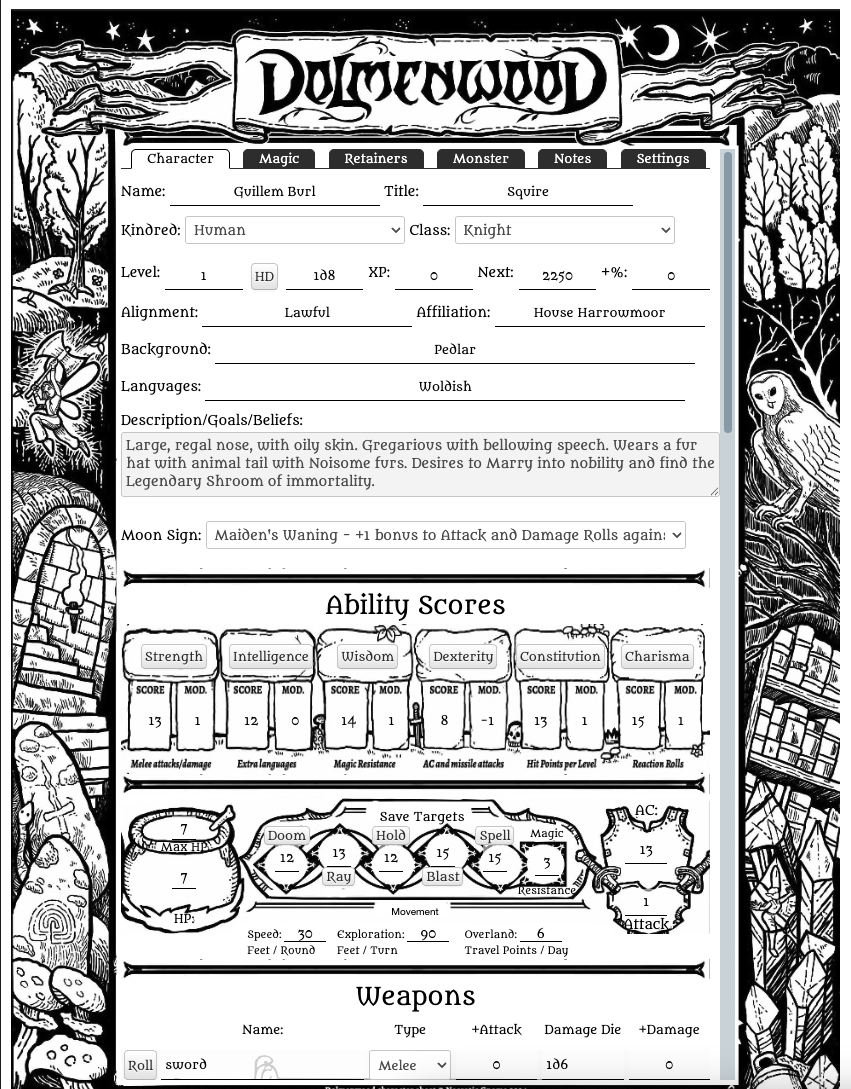
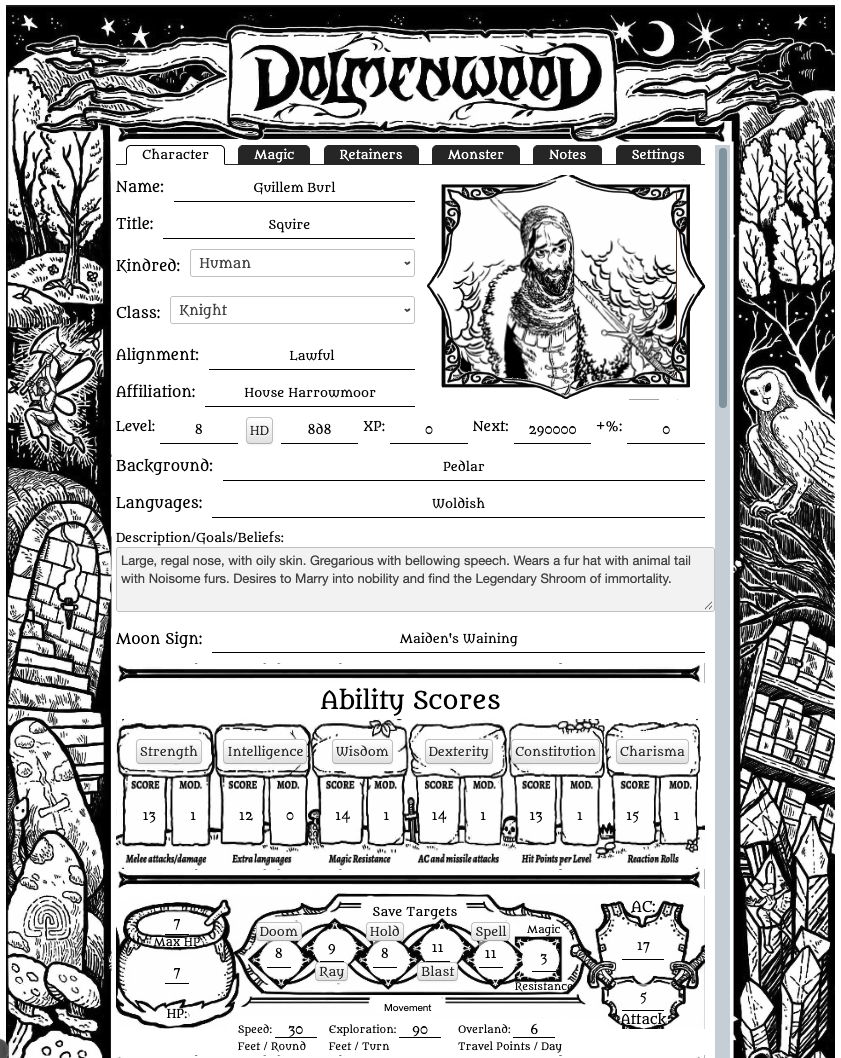
Dolmenwood: update to sho character portrate.

diff --git a/Dolmenwood/dolmenwood.html b/Dolmenwood/dolmenwood.html
@@ -37,6 +37,10 @@
             <label class="inline-flex space-between">
               <span data-i18n="name">Name:</span>
               <input type="text" name="attr_character_name"/>
+            </label>
+          </div>
+          <div class="flex">
+            <label class="inline-flex space-between">    
               <span data-i18n="title">Title</span>
               <input type="text" name="attr_title"/>
             </label>
@@ -54,6 +58,10 @@
                 <option value="woodgrue" data-i18n="woodgrue">Woodgrue</option>
                 <option value="custom" data-i18n="custom">Custom</option>
               </select>
+            </label>
+          </div>
+          <div class="flex">
+            <label class="inline-flex">
               <span data-i18n="class">Class:</span>
               <select name="attr_class" class="class">
                 <option>--</option>
@@ -80,52 +88,64 @@
               </select>
             </label>
           </div>
-          <div>
-            <div class="flex xp">
-              <span data-i18n="level">Level</span>
-              <input type="number" min="0" name="attr_level" value="1" />
-              <button type="roll" name="hitpointsRoll" data-i18n="hit-dice-abbr" title="Hit Dice" data-i18n-title="hit-dice"
-                value="&{template:simple} {{roll=HP for @{character_name}}} {{result=[[@{hitdice}+[[@{conMod}*{@{level}, 9}kl1]]]]}}">
-                HD
-              </button>
-              <input type="text" name="attr_hitdice" value="0"/>
-              <span data-i18n="experience-abbr">XP</span>
-              <input type="number" min="0" name="attr_XP" value="0" />
-              <span data-i18n="next">Next</span>
-              <input type="number" min="0" name="attr_Next" data-i18n-title="experience-next"
-                title="Experience to Next Level" value="0" />
-              <span>+%:</span>
-              <input type="number" name="attr_ExpPercentage" value="0" />
-            </div>
-          </div>
           <div class="flex">
             <label class="inline-flex">
               <span data-i18n="alignment">Alignment:</span>
               <input type="text" name="attr_alignment" />
+            </label>
+          </div>
+          <div class="flex">
+            <label class="inline-flex">
               <span data-i18n="affiliation">Affiliation:</span>
               <input type="text" name="attr_affiliation" />
             </label>
           </div>
-          <div class="flex">
-            <label class="inline-flex">
-              <span data-i18n="background">Background</span>
-              <input type="text" name="attr_background"/>
-            </label>
+        </div>
+        <div class="portrait-frame">
+          <img name="attr_character_avatar" class="portrait-image" />
+          <img class="portrait-border"
+            src="https://github.com/Roll20/roll20-character-sheets/blob/master/Dolmenwood/images/portrait-border.png?raw=true" />
+        </div>
+      </div>
+
+      <div class="details">
+        <div>
+          <div class="flex xp">
+            <span data-i18n="level">Level</span>
+            <input type="number" min="0" name="attr_level" value="1" />
+            <button type="roll" name="hitpointsRoll" data-i18n="hit-dice-abbr" title="Hit Dice" data-i18n-title="hit-dice"
+              value="&{template:simple} {{roll=HP for @{character_name}}} {{result=[[@{hitdice}+[[@{conMod}*{@{level}, 9}kl1]]]]}}">
+              HD
+            </button>
+            <input type="text" name="attr_hitdice" value="0"/>
+            <span data-i18n="experience-abbr">XP</span>
+            <input type="number" min="0" name="attr_XP" value="0" />
+            <span data-i18n="next">Next</span>
+            <input type="number" min="0" name="attr_Next" data-i18n-title="experience-next"
+              title="Experience to Next Level" value="0" />
+            <span>+%:</span>
+            <input type="number" name="attr_ExpPercentage" value="0" />
           </div>
-          <div class="flex">
-            <label class="inline-flex">
-              <span data-i18n="languages">Languages:</span>
-              <input type="text" name="attr_languages" />
-            </label>
-          </div>
-          <span data-i18n="description-goals-beliefs">Description/Goals/Beliefs:</span>
-          <textarea name="attr_descGoalBel" rows="2"></textarea>
-          <div class="flex">
-            <label class="inline-flex">
-              <span data-i18n="moon-sign">Moon Sign:</span>
-              <input type="text" name="attr_moonsign" />
-            </label>
-          </div>
+        </div>
+        <div class="flex">
+          <label class="inline-flex">
+            <span data-i18n="background">Background</span>
+            <input type="text" name="attr_background"/>
+          </label>
+        </div>
+        <div class="flex">
+          <label class="inline-flex">
+            <span data-i18n="languages">Languages:</span>
+            <input type="text" name="attr_languages" />
+          </label>
+        </div>
+        <span data-i18n="description-goals-beliefs">Description/Goals/Beliefs:</span>
+        <textarea name="attr_descGoalBel" rows="2"></textarea>
+        <div class="flex">
+          <label class="inline-flex">
+            <span data-i18n="moon-sign">Moon Sign:</span>
+            <input type="text" name="attr_moonsign" />
+          </label>
         </div>
       </div>
 
@@ -1636,35 +1656,54 @@
 
     <!-- Monster Sheet -->
     <div class="sheet-monster">
-      <div class="monster-row">
-        <span data-i18n="name">Name:</span>
-        <input type="text" name="attr_character_name" />
-        <span class="double" data-i18n="description">Description</span>
-        <input type="text" name="attr_monsterDescription" />
-      </div>
-      <div class="monster-row">
-        <span data-i18n="alignment">Alignment</span>
-        <input type="text" name="attr_alignment" />
-        <span>Level:</span>
-        <input type="number" min="0" name="attr_monsterHitDice" value="1" />
-        <span data-i18n="armor-class-abbr" title="Armour Class" data-i18n-title="armor-class">AC</span>
-        <input type="number" name="attr_monsterAc" value="0" />
-      </div>
-      <div class="monster-row">
-        <button type="roll" name="monsterHpRoll" data-i18n="hit-dice-number-abbr" title="Hit Dice"
-          data-i18n-title="hit-dice-number"
-          value="/w gm &{template:simple} {{roll=HP for @{character_name}}} {{result=[[@{hitdice}]]}}">
-          # HD:
-        </button>
-        <input type="text" min="0" name="attr_hitdice" value="1d8" />
-        <button type="action" name="act_setAverageHP" data-i18n="hit-points-average">
-          Average HP
-        </button>
-        <input readonly type="number" name="attr_averageHP" value="" />
-        <span data-i18n="hit-points-abbr">HP:</span>
-        <input type="number" name="attr_HP" value="0" />
-        <span data-i18n="hit-points-max-abbr">Max:</span>
-        <input type="number" min="0" name="attr_HP_max" value="0" />
+      <div class="monster-header">
+        <div class="monster-left">
+          <div class="monster-row">
+            <span data-i18n="name">Name:</span>
+            <input type="text" name="attr_character_name" />
+          </div>
+          
+          <div class="monster-row">
+            <span class="double" data-i18n="description">Description</span>
+            <input type="text" name="attr_monsterDescription" />
+          </div>
+          <div class="monster-row">
+            <span data-i18n="alignment">Alignment</span>
+            <input type="text" name="attr_alignment" />
+          </div>
+          
+          <div class="monster-row">
+            <span>Level:</span>
+            <input type="number" min="0" name="attr_monsterHitDice" value="1" />
+            <span data-i18n="armor-class-abbr" title="Armour Class" data-i18n-title="armor-class">AC</span>
+            <input type="number" name="attr_monsterAc" value="0" />
+          </div>
+
+          <div class="monster-row">
+            <button type="roll" name="monsterHpRoll" data-i18n="hit-dice-number-abbr" title="Hit Dice"
+              data-i18n-title="hit-dice-number"
+              value="/w gm &{template:simple} {{roll=HP for @{character_name}}} {{result=[[@{hitdice}]]}}">
+              # HD:
+            </button>
+            <input type="text" min="0" name="attr_hitdice" value="1d8" />
+            <button type="action" name="act_setAverageHP" data-i18n="hit-points-average">
+              Average HP
+            </button>
+            <input readonly type="number" name="attr_averageHP" value="" />
+          </div>
+          
+          <div class="monster-row">
+            <span data-i18n="hit-points-abbr">HP:</span>
+            <input type="number" name="attr_HP" value="0" />
+            <span data-i18n="hit-points-max-abbr">Max:</span>
+            <input type="number" min="0" name="attr_HP_max" value="0" />
+          </div>
+        </div>
+        <div class="portrait-frame">
+          <img name="attr_character_avatar" class="portrait-image" />
+          <img class="portrait-border"
+            src="https://github.com/Roll20/roll20-character-sheets/blob/master/Dolmenwood/images/portrait-border.png?raw=true" />
+        </div>
       </div>
       <div class="divider"></div>
       <input type="hidden" name="attr_savesAs" value="character" />

diff --git a/Dolmenwood/dolmenwood.css b/Dolmenwood/dolmenwood.css
@@ -351,6 +351,85 @@ input[name="attr_sheetTab"][value="settings"]
   border-bottom: 1px solid white;
 }
 
+/* Portrait */
+
+.info-grid {
+  display: flex;
+  justify-content: space-between;
+  align-items: flex-start;
+  gap: 10px;
+}
+
+.info-grid .infos {
+  flex: 1;
+  min-width: 0;
+}
+
+.monster-header {
+  display: flex;
+  justify-content: space-between;
+  align-items: flex-start;
+  gap: 10px;
+}
+
+.monster-header .monster-left {
+  flex: 1;
+  min-width: 0;
+}
+
+.portrait-frame {
+  position: relative;
+  width: 280px;
+  height: 225px;
+  flex-shrink: 0;
+  display: flex;
+  justify-content: center;
+  align-items: center;
+}
+
+.portrait-image {
+  height: 100%;
+}
+
+.portrait-border {
+  position: absolute;
+  top: 0;
+  left: 0;
+  width: 100%;
+  height: 100%;
+  object-fit: contain;
+  pointer-events: none;
+}
+
+/* Fill available width on the rows beside the portrait, with a 10px gap
+   between each label and its input. */
+
+.info-grid .flex,
+.details .flex,
+.monster-header .monster-row {
+  display: flex;
+  gap: 10px;
+}
+
+.info-grid .flex label.inline-flex,
+.details .flex label.inline-flex {
+  display: flex;
+  align-items: center;
+  flex: 1;
+  min-width: 0;
+  gap: 10px;
+}
+
+.info-grid .flex label.inline-flex input,
+.info-grid .flex label.inline-flex select,
+.details .flex label.inline-flex input,
+.details .flex label.inline-flex select,
+.monster-header .monster-row input {
+  flex: 1;
+  min-width: 0;
+  width: auto;
+}
+
 /* Monster */
 
 .sheet-monster select[name="attr_class"] {
@@ -535,6 +614,7 @@ div.movement table {
 }
 
 div.movement table caption {
+  font-family: "Metamorphous", serif;
   text-align: center;
   color: black;
 }
